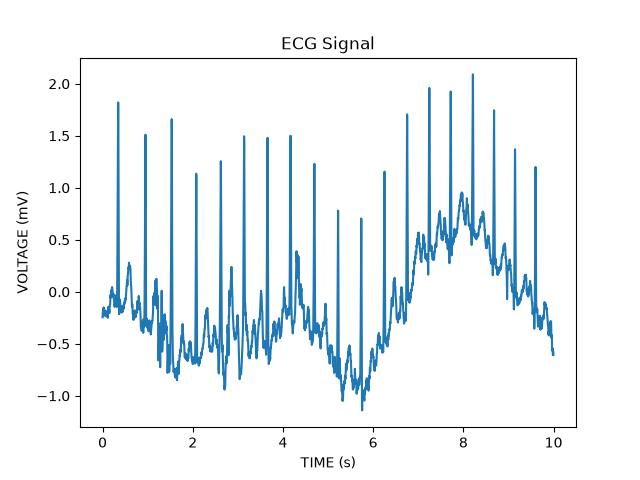
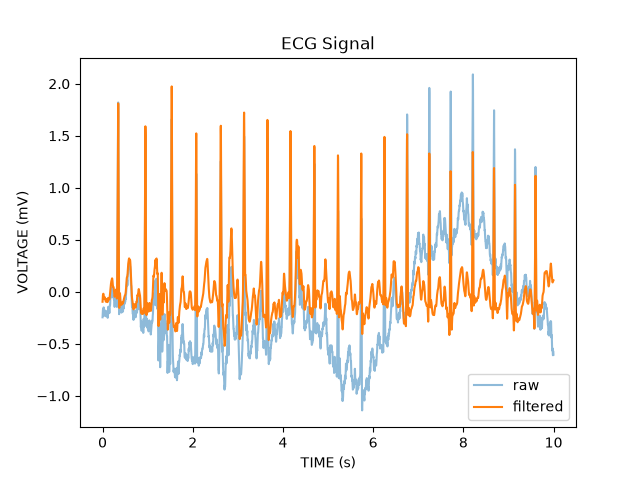
add bandpass filter

diff --git a/src/main.py b/src/main.py
@@ -1,14 +1,18 @@
 import matplotlib.pyplot as plt 
 from load_data import load_ecg
+from filtering import bandpass_filter
 
 
 time, signal , fs = load_ecg(10)
+filtered = bandpass_filter(signal, fs)
 print("time: from", time.min(), "to" , time.max())
 print("signal: from", signal.min(), "to", signal.max())
 
-plt.plot(time , signal)
+plt.plot(time , signal, label="raw", alpha=0.5)
+plt.plot(time, filtered, label="filtered")
 plt.xlabel("TIME (s)")
 plt.ylabel("VOLTAGE (mV)")
 plt.title("ECG Signal")
+plt.legend()
 plt.savefig("results/ecg_plot.png")
 plt.show()

diff --git a/src/filtering.py b/src/filtering.py
@@ -1,0 +1,9 @@
+from scipy.signal import butter, filtfilt
+
+def bandpass_filter(signal, fs, low=0.5, high=40, order=3):
+    nyquist = 0.5 * fs
+    low_norm = low / nyquist
+    high_norm = high / nyquist
+
+    b, a = butter(order, [low_norm, high_norm], btype="band")
+    return filtfilt(b, a, signal)
